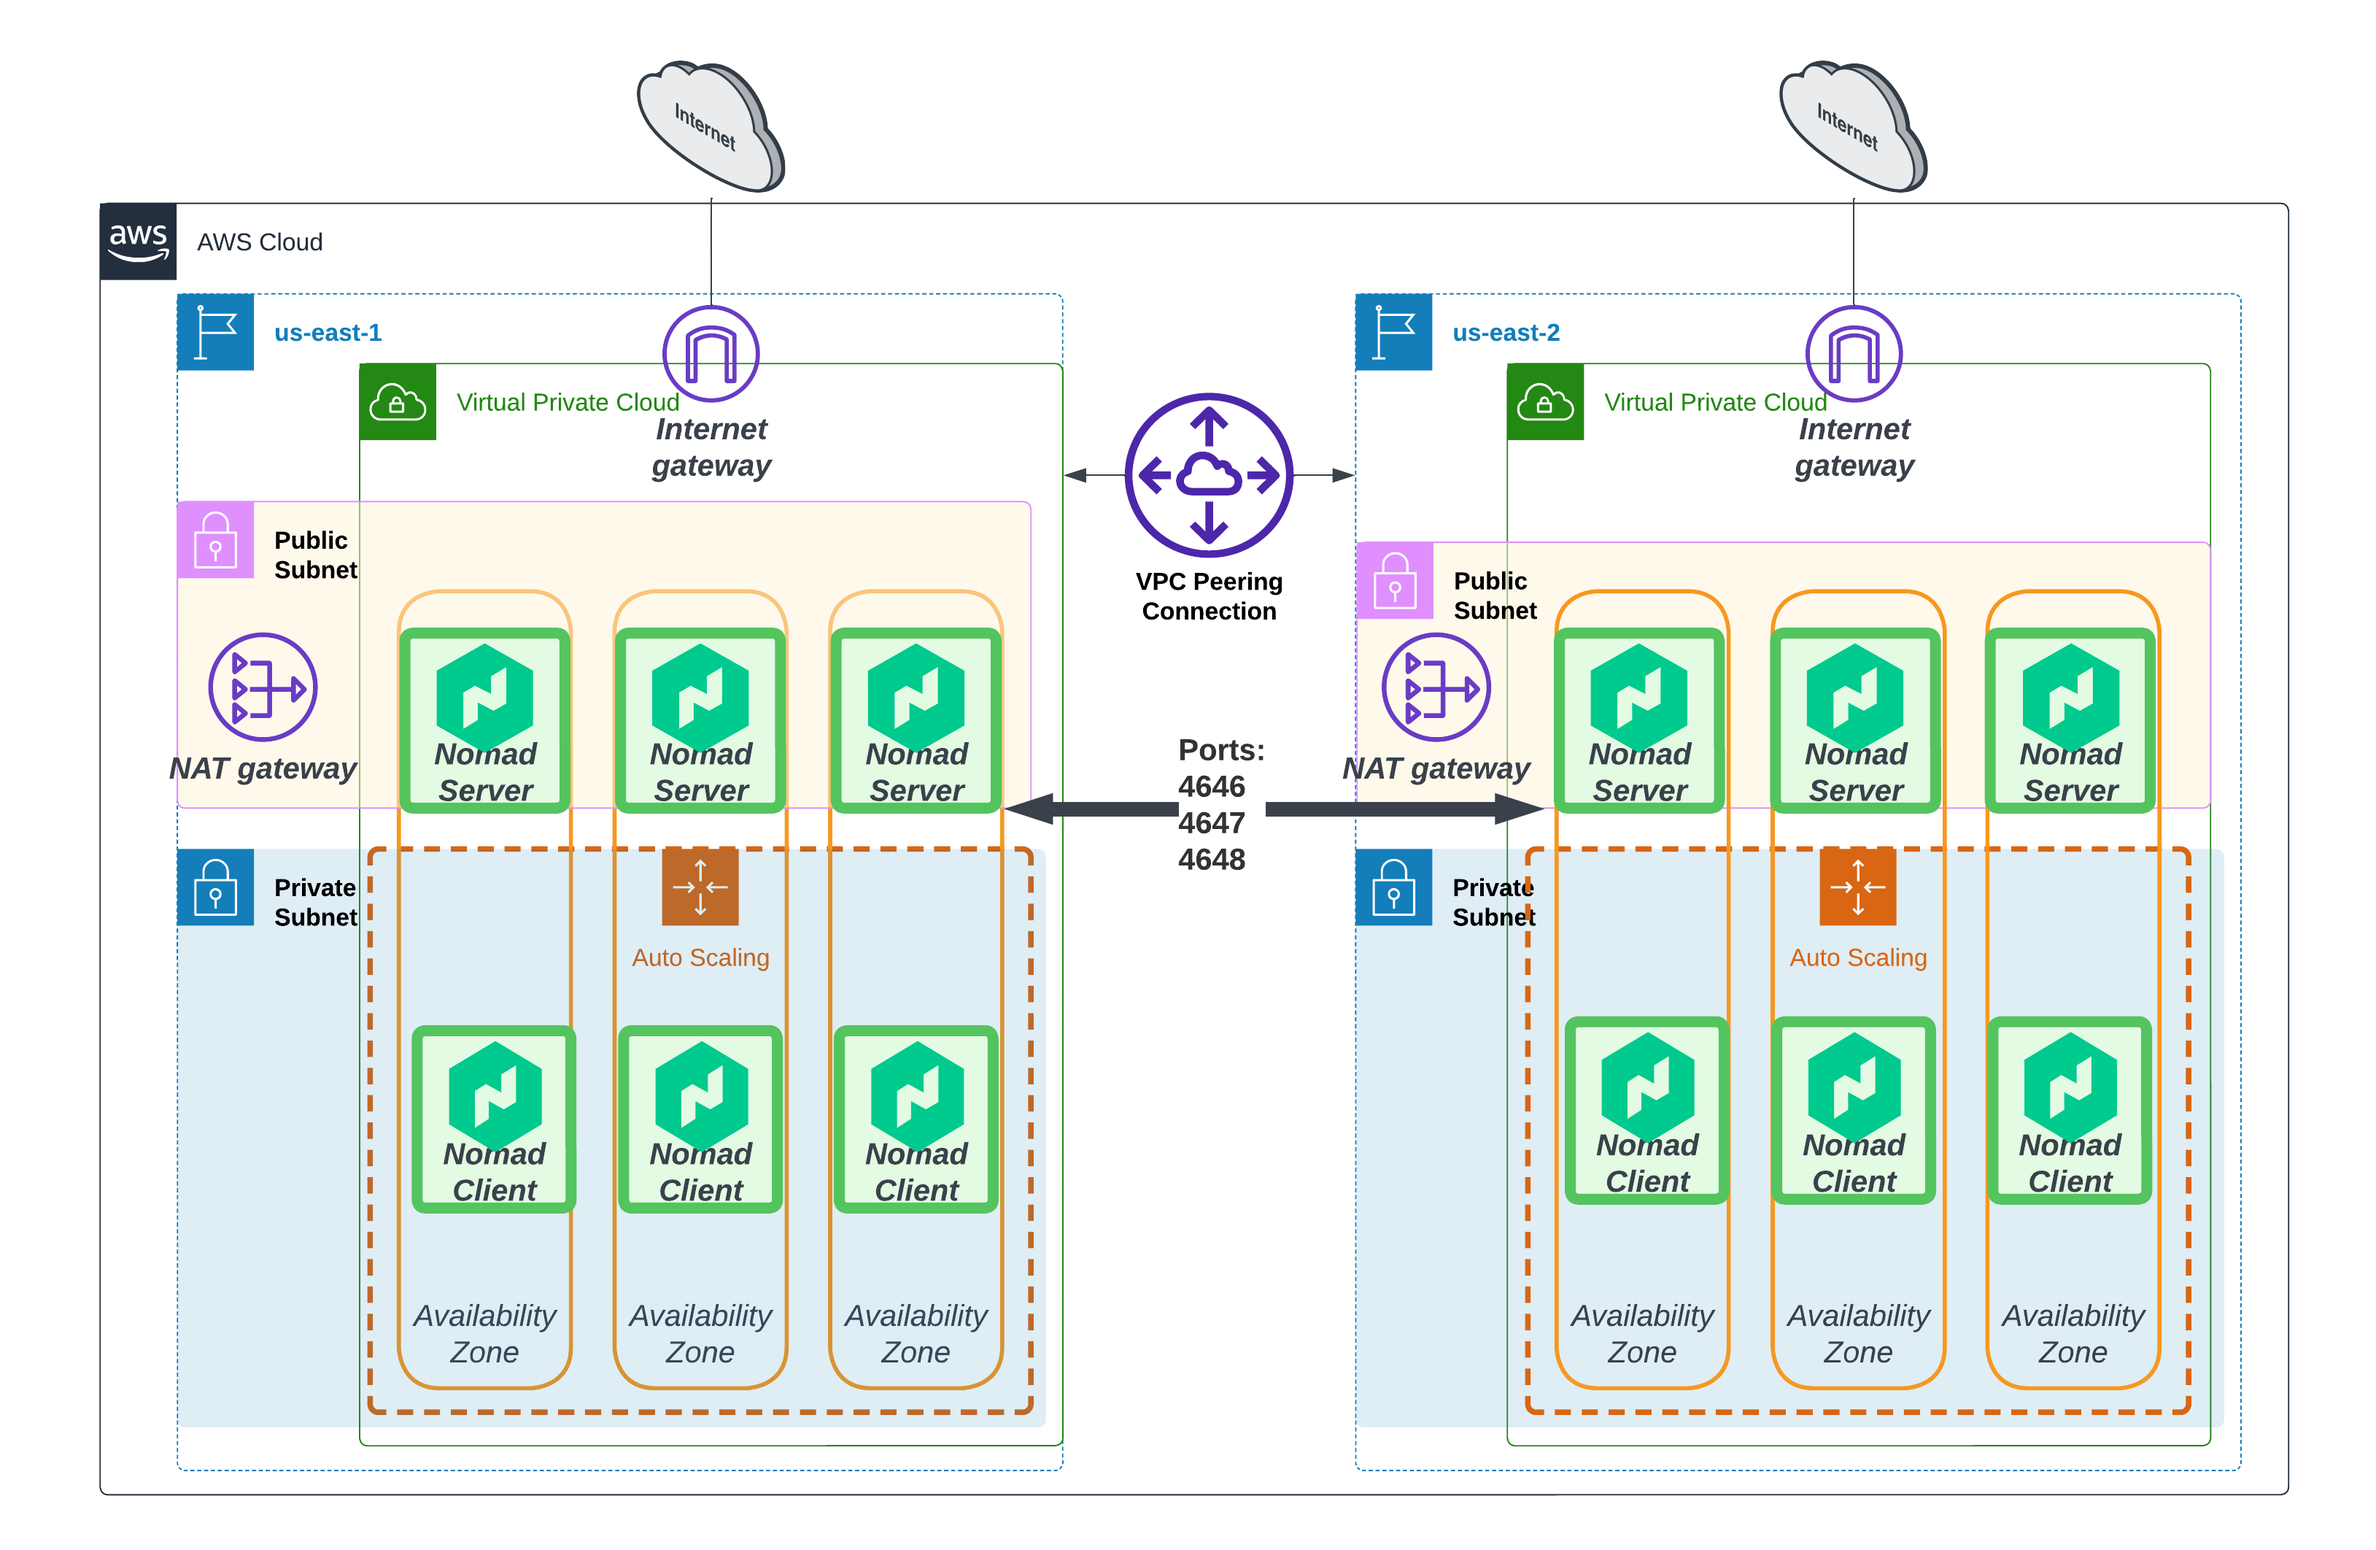
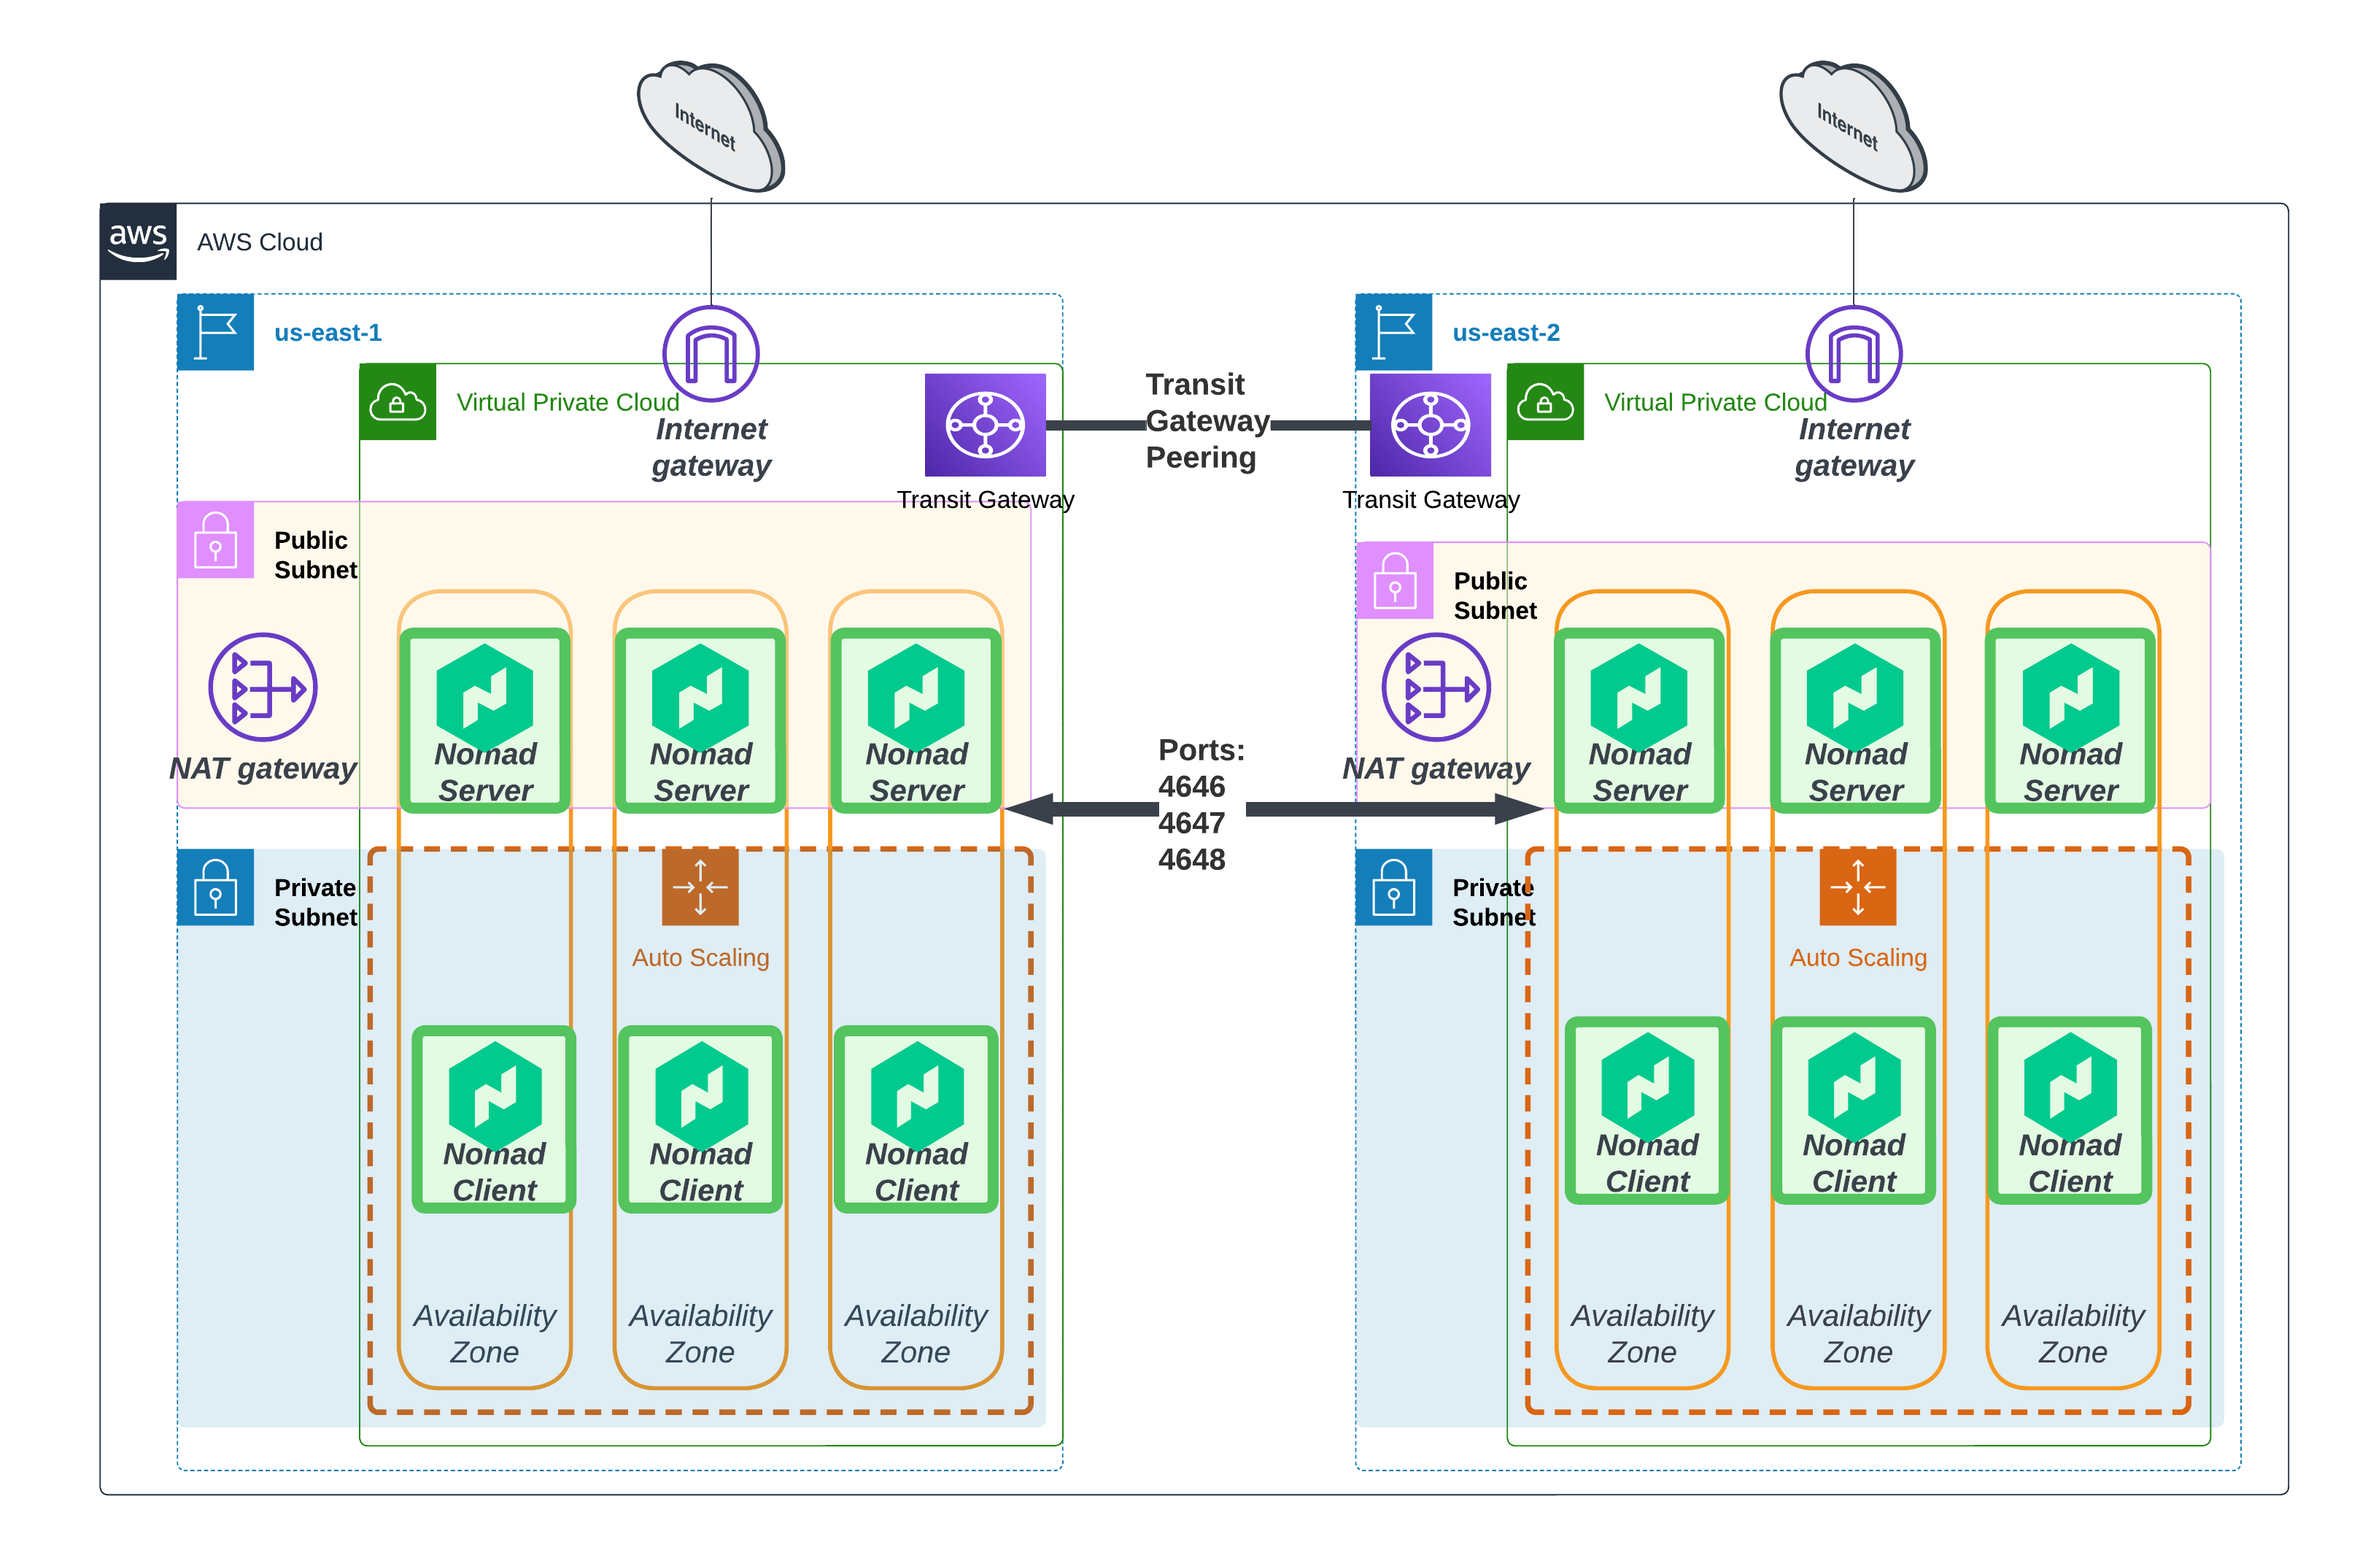
added transit gateway

Changed region(s): [[0.3721, 0.2175, 0.6512, 0.404], [0.4652, 0.4661, 0.5272, 0.5593]]

diff --git a/README.md b/README.md
@@ -18,10 +18,9 @@ This repo contains Terraform code for deploying Nomad clusters across multiple c
     - [Connecting to Instances](#connecting-to-instances)
     - [Troubleshooting](#troubleshooting)
 
+
 ## Architecture Diagram
 ![Nomad Multi Region](./assets/nomad-multi-region.png "Nomad Multi Region")
-
-
 
 ## Usage
 
@@ -59,8 +58,6 @@ rm nomad.token
 rm nomad2.token
 rm nomad1.token
 ./post-setup.sh
-ssh -i ahar-keypair-2023.pem ubuntu@$(terraform output -raw "region_1_server_ip")
-
 ```
 
 ### Output Example
@@ -86,5 +83,9 @@ ssh -i ahar-keypair-2023.pem ubuntu@$(terraform output -raw "region_1_server_ip"
 
 ### Troubleshooting
 ```
+#View Log Files on Nomad Server/Client Nodes
 cat /var/log/syslog
+
+#Transit Gateway Troubleshooting
+[Troubleshooting Transit Gateway Routing](https://aws.amazon.com/premiumsupport/knowledge-center/transit-gateway-fix-vpc-connection/)
 ```
